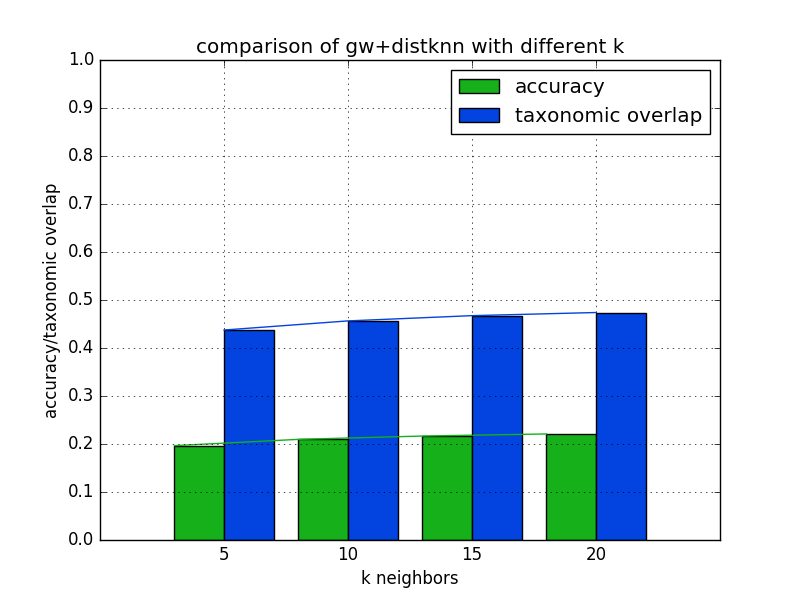
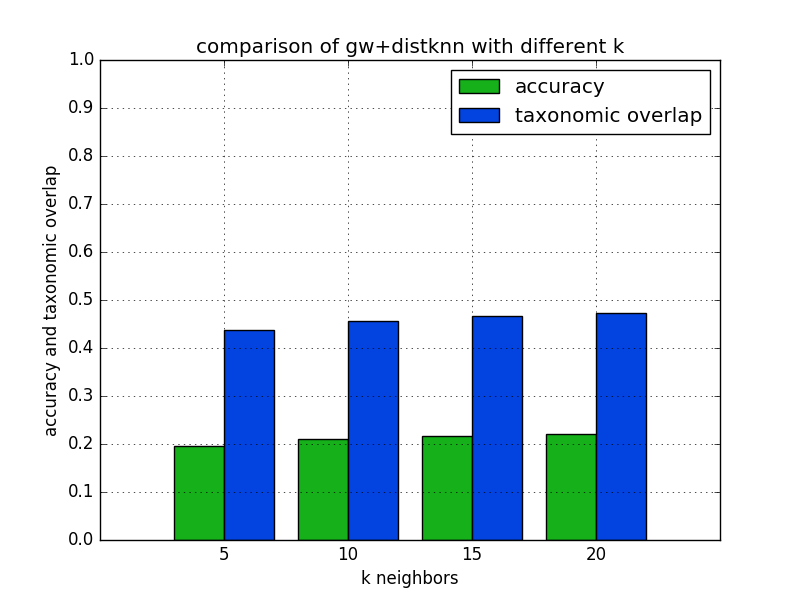
Improved evaluation plots. Added best classifier evaluation plot.

diff --git a/scripts/evaluation/plot_accuracy_avg_overlap.py b/scripts/evaluation/plot_accuracy_avg_overlap.py
@@ -11,17 +11,16 @@ def plot_accuracy_overlap_plot(title, xlabel, xticks, accuracies, overlaps, outp
 
     plt.figure(1)
     plt.clf()
+    plt.tick_params(bottom='off')
     plt.ylim([0, 1])
     acc_rect = plt.bar(xticks-offset*2, accuracies, width=width, color='#15b01a')
     over_rect = plt.bar(xticks, overlaps, width=width, color='#0343df')
-    _ = plt.plot(xticks-offset*2, accuracies, color='#15b01a')
-    _ = plt.plot(xticks, overlaps, color='#0343df')
     plt.xticks(xticks)
     plt.yticks(np.arange(0, 1.1, 0.1))
     plt.legend((acc_rect, over_rect), ('accuracy', 'taxonomic overlap'))
     plt.grid(True)
     plt.xlabel(xlabel)
-    plt.ylabel('accuracy/taxonomic overlap')
+    plt.ylabel('accuracy and taxonomic overlap')
     plt.title(title)
     plt.savefig(output_path)
     logging.log(level=logging.INFO, msg='stored ts+distknn evaluation plot to {}'.format(output_path))
@@ -41,6 +40,7 @@ def main():
     gw_knn_plot_output = config['gw+distknn evaluation plot']
     ts_linproj_plot_output = config['ts+linproj evaluation plot']
     gw_linproj_plot_output = config['gw+linproj evaluation plot']
+    best_classifier_plot_output = config['best classifier evaluation plot']
 
     accuracies = dict()
     overlaps = dict()
@@ -50,6 +50,29 @@ def main():
             accuracies[r[0]] = float(r[3])
             overlaps[r[0]] = float(r[4])
     logging.log(level=logging.INFO, msg='loaded evaluation results')
+
+    plt.figure(1)
+    plt.clf()
+
+    plt.tick_params(bottom='off')
+
+    algos = ['baseline', 'ts+distknn(k=20)', 'gw+linproj(c=50)']
+
+    plt.title("comparison of best classifier variants")
+    x = np.arange(len(algos))
+    width = np.max(x) / 10.0
+    offset = width / 2.0
+    acc_rect = plt.bar(x, [accuracies[algo] for algo in algos], width=width, color='#15b01a')
+    over_rect = plt.bar(x+2*offset, [overlaps[algo] for algo in algos], width=width, color='#0343df')
+    plt.xticks(x+0.2, algos, rotation=8)
+    plt.yticks(np.arange(0, 1.1, 0.1))
+    plt.xlabel('algorithm')
+    plt.ylabel('accuracy and taxonomic overlap')
+    plt.legend((acc_rect, over_rect), ('accuracy', 'taxonomic overlap'))
+    plt.grid(True)
+
+    plt.savefig(best_classifier_plot_output)
+    logging.log(level=logging.INFO, msg='stored best classifier evaluation plot to '.format(best_classifier_plot_output))
 
     plot_accuracy_overlap_plot(
         'comparison of ts+distknn with different k',
